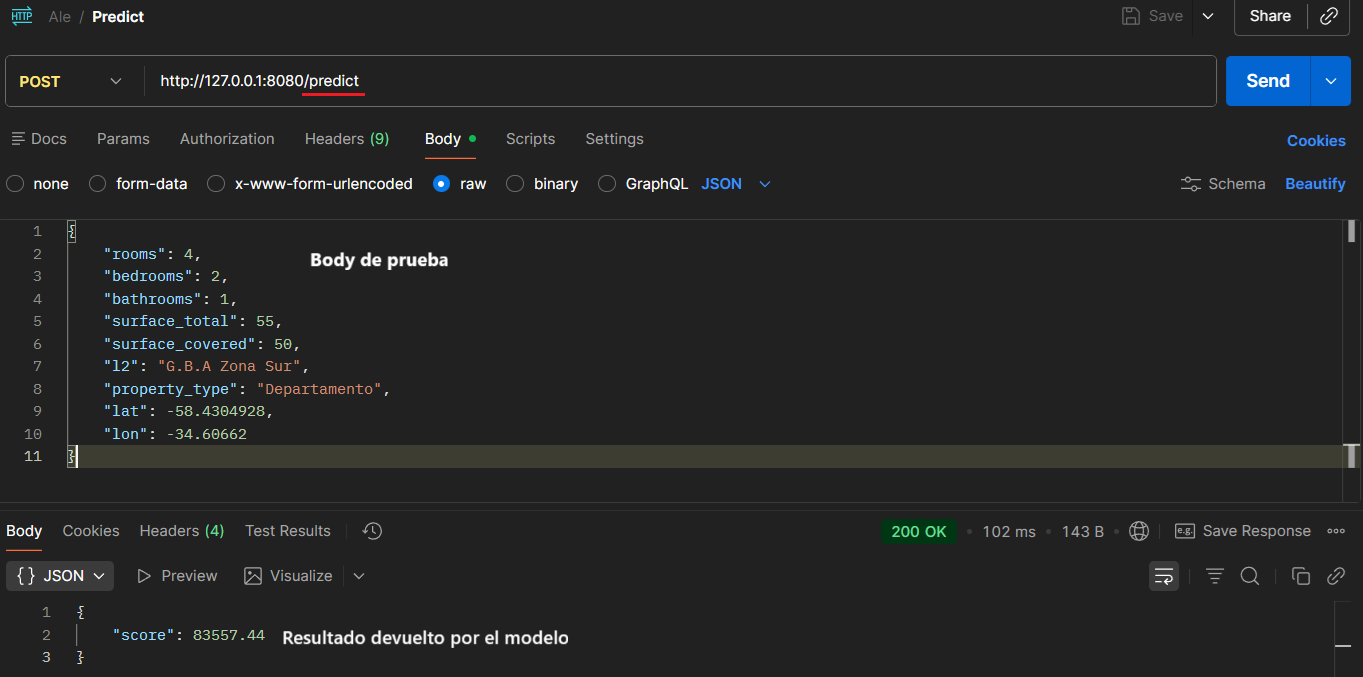
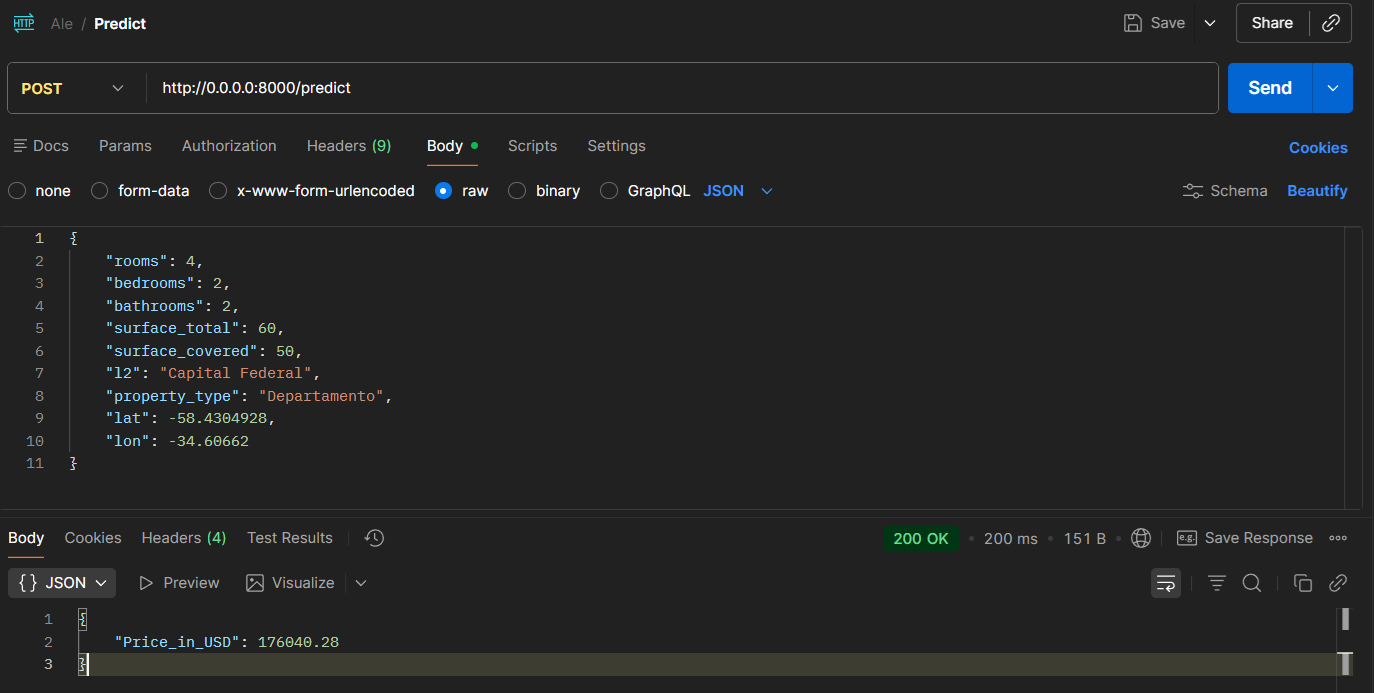
[add] Dockerfile: funcionando de manera local

diff --git a/extras/local-server/main.py b/extras/local-server/main.py
@@ -11,11 +11,9 @@ app = FastAPI()
 
 CURRENT_FILE = os.path.abspath(__file__)
 SCRIPT_DIR = os.path.dirname(CURRENT_FILE)
-ONE_LEVEL_UP = os.path.dirname(SCRIPT_DIR)
-ROOT_DIR = os.path.dirname(ONE_LEVEL_UP)
 
-MODEL_PATH = os.path.join(SCRIPT_DIR, "model", "model.pkl")
-CATEGORIES_OHE_PATH = os.path.join(ROOT_DIR, "notebooks", "categories_ohe.pkl")
+MODEL_PATH = os.path.join(SCRIPT_DIR, "model", "rf-final-model.pkl")
+CATEGORIES_OHE_PATH = os.path.join(SCRIPT_DIR, "model", "categories-ohe.pkl")
 
 with open(MODEL_PATH, "rb") as f:
     model = pickle.load(f)
@@ -61,4 +59,4 @@ def predict_price(answer: Answer):
 
 
 if __name__ == '__main__':
-    uvicorn.run(app, host='127.0.0.1', port=8080)
+    uvicorn.run(app, host="0.0.0.0", port=8000)
